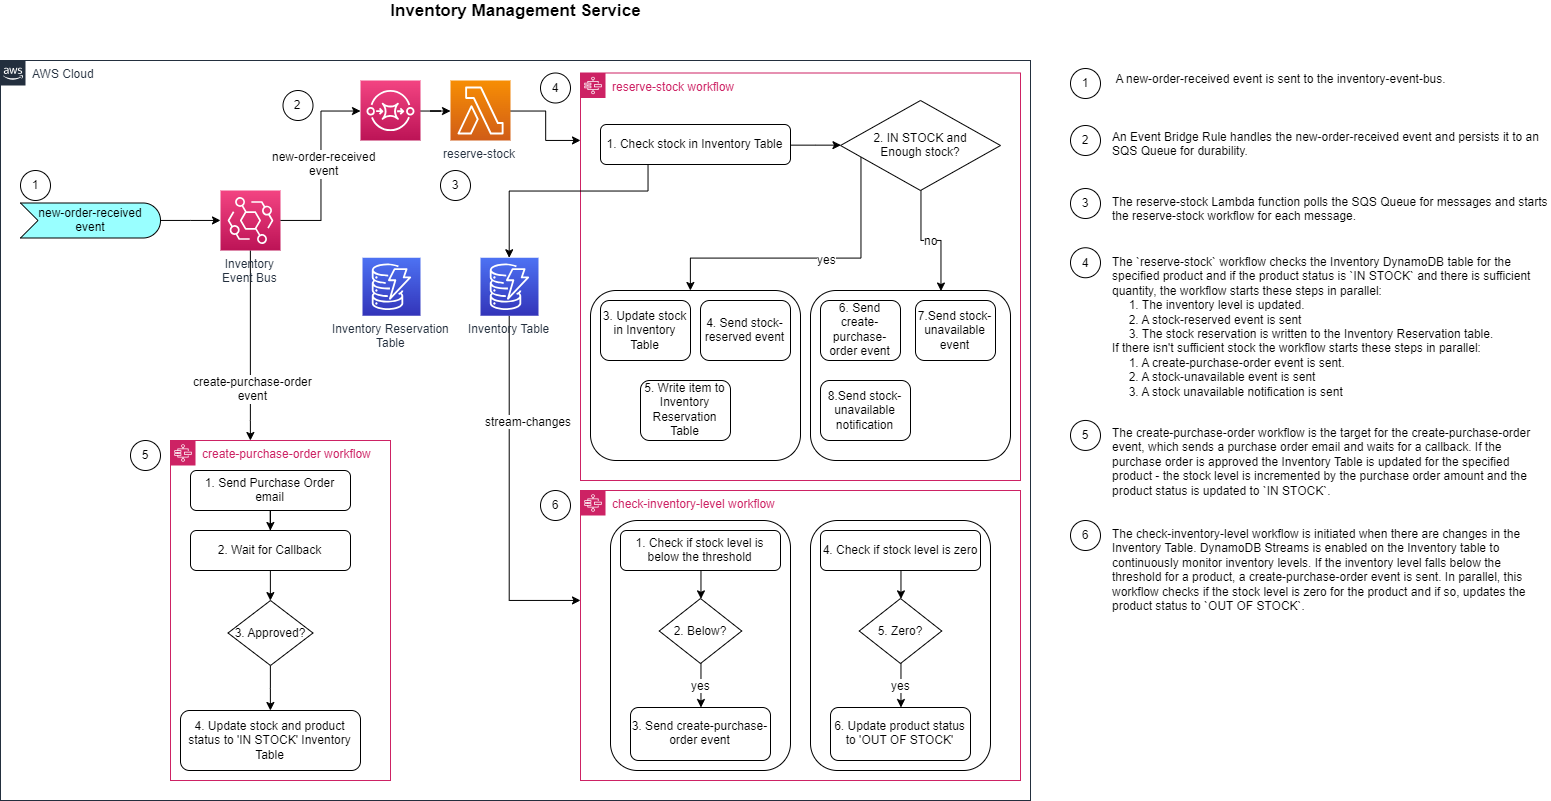
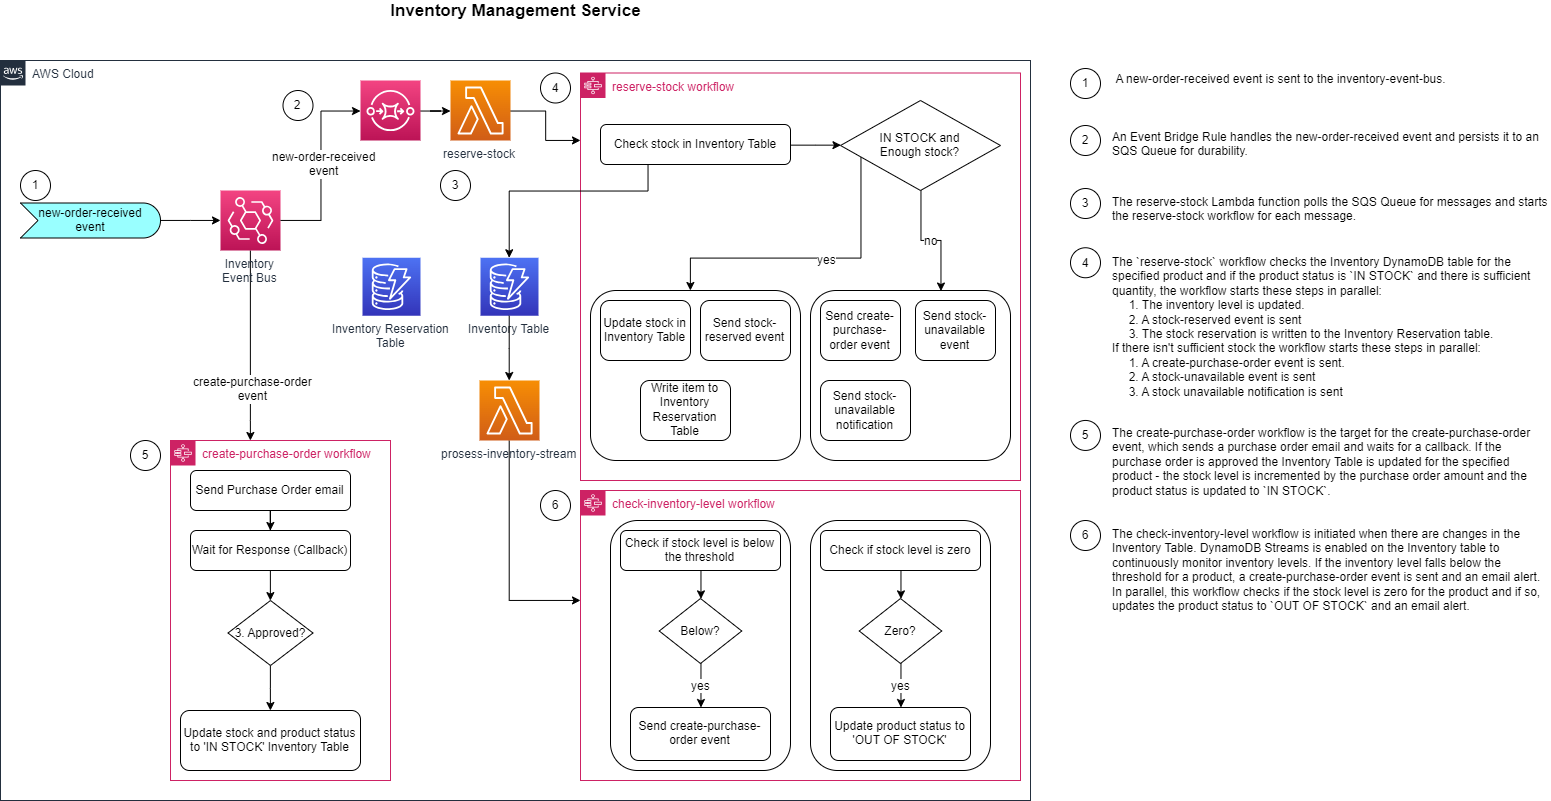
updated logic for call back to use Success otherwise sf fails, filter dynamo streams

diff --git a/inventory-management-sam/lambda/call-back-from-email/index.js b/inventory-management-sam/lambda/call-back-from-email/index.js
@@ -1,4 +1,4 @@
-const { SFNClient, SendTaskSuccessCommand, SendTaskFailureCommand } = require("@aws-sdk/client-sfn");
+const { SFNClient, SendTaskSuccessCommand } = require("@aws-sdk/client-sfn");
 
 const client = new SFNClient();
 
@@ -14,14 +14,14 @@ exports.handler = async function(event, context) {
         };
         const command = new SendTaskSuccessCommand(input);
         await client.send(command);
-    } else if (action === "reject") {
+    } else if (action === "reject") {     
         const message = { "Status": "Rejected" };
-        
+            
         const input = { 
             taskToken: taskToken,
             output: JSON.stringify(message)
         };
-        const command = new SendTaskFailureCommand(input);
+        const command = new SendTaskSuccessCommand(input);
         await client.send(command);
     } else {
         const errorMessage = "Unrecognized action. Expected: approve, reject."
